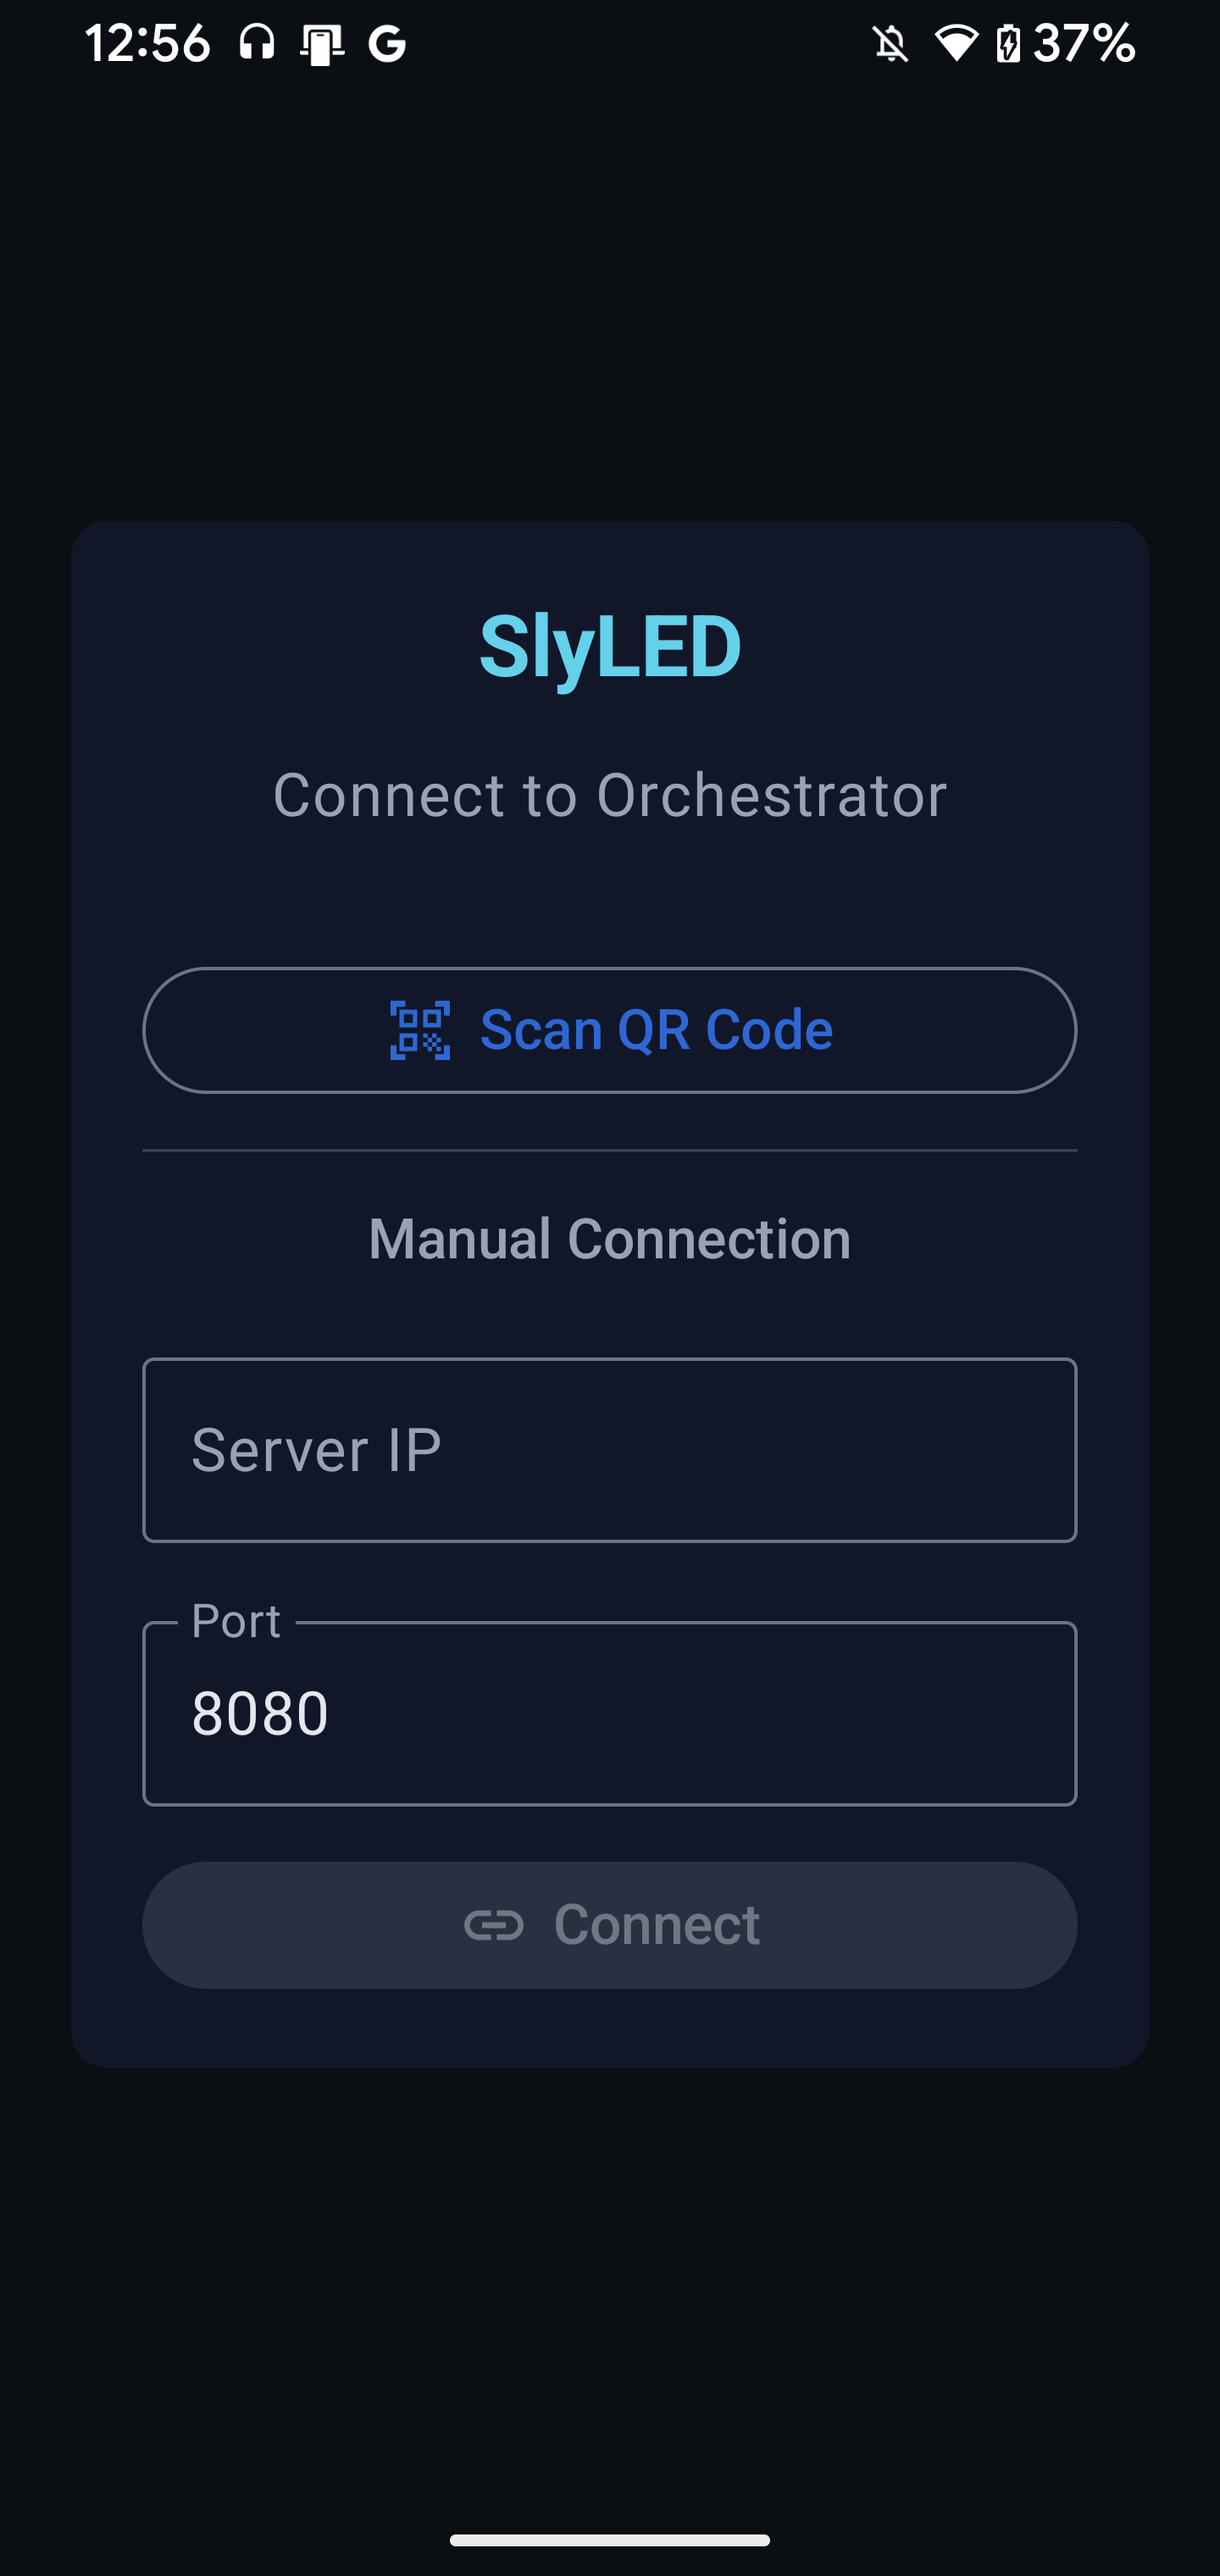
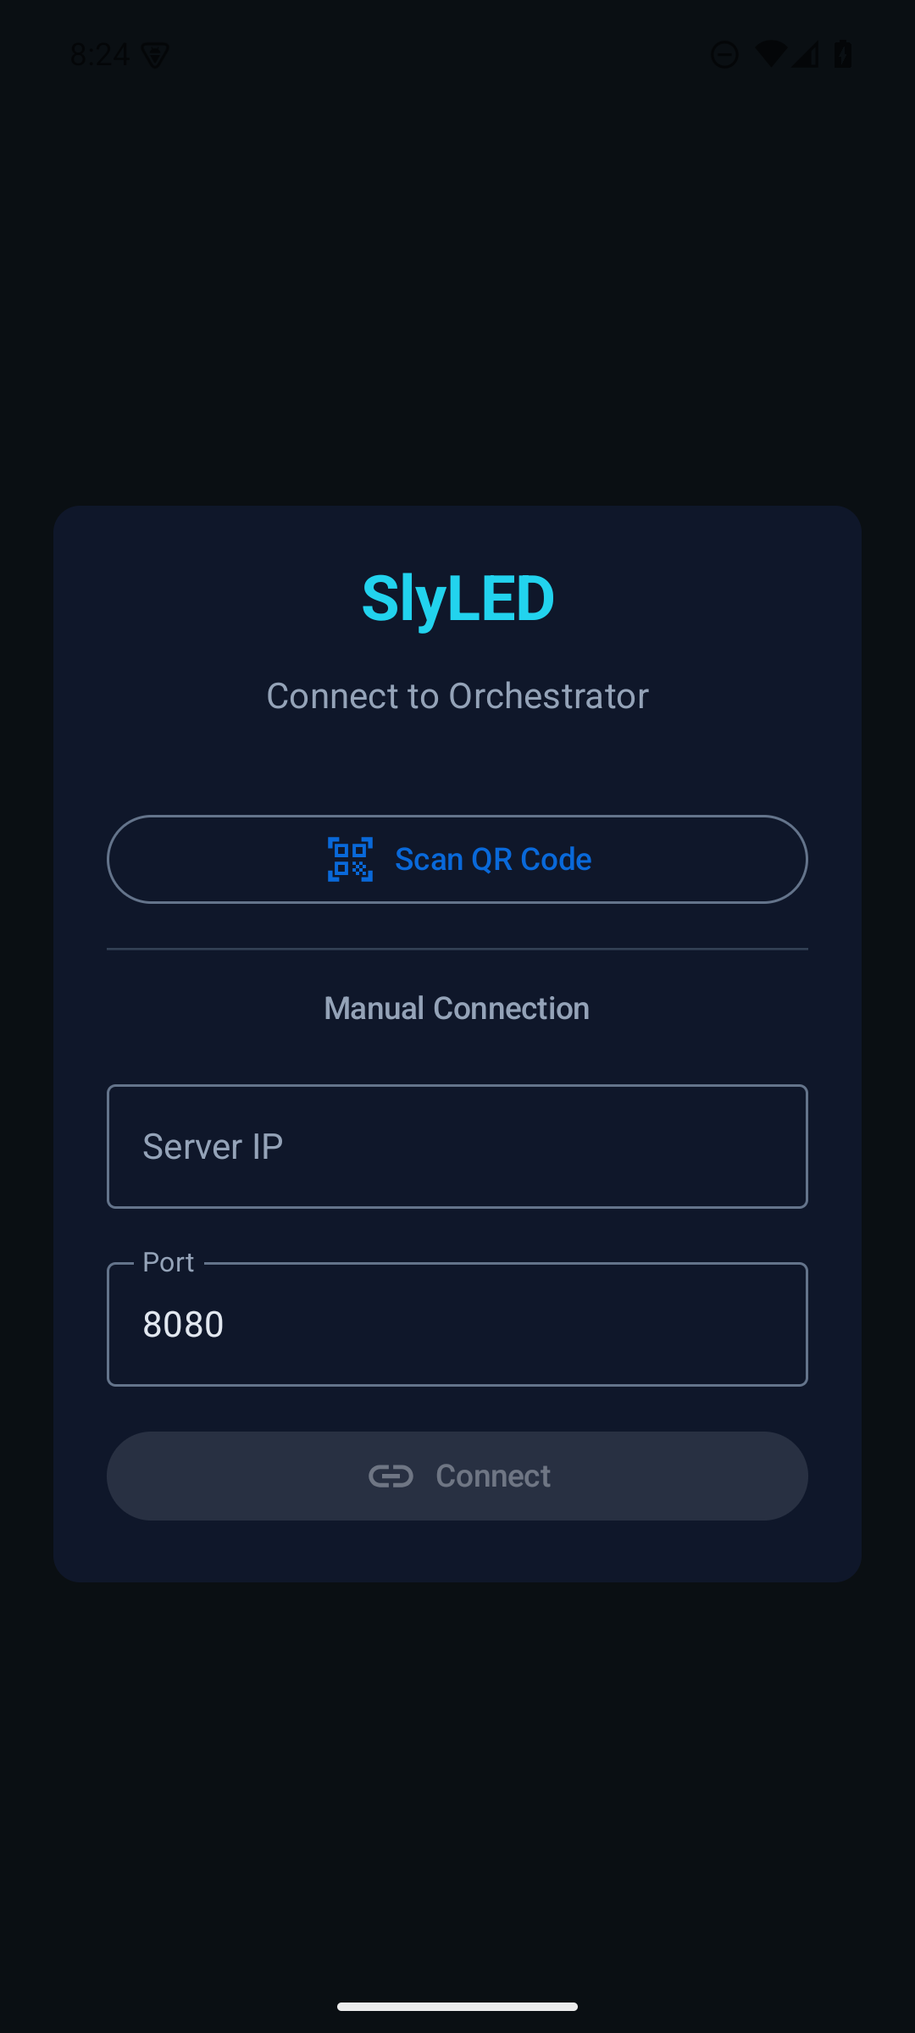
docs(#888): refresh Android screenshots for v1.8.x Command Surface
Captured from a headless Pixel-6 emulator running v1.8.4 against
a localhost orchestrator. Replaces the pre-redesign Control shot
(operators were seeing a UI in the manual that hasn't existed
since v1.8.1) and adds one shot per Command Surface page so the
prose's four-bullet description has matching visuals:

  android-control-master.png      brightness + Auto Brightness
  android-control-grab.png        moving-head tiles
  android-control-fixtures.png    profile-driven shortcuts
                                  (Hurricane Bubble Haze sample)
  android-control-shows.png       Figure Eight playlist

Also refreshes connection / stage-idle / status / settings to
match the current chrome (Connected pill, "No show running"
banner, NowPlayingAnchor over the pager).

Dropped four orphaned pre-redesign shots that nothing references:
android-control-scrolled, android-show-running, android-stage-
running, android-status-scrolled.

diff --git a/docs/USER_MANUAL.md b/docs/USER_MANUAL.md
@@ -344,7 +344,7 @@ Live operator tool for running shows from your phone. Connects to the desktop se
 **Install:** Sideload `slyled-android.apk` to your phone and install.
 **Connect:** Scan the QR code on the desktop Settings tab, or enter the server IP and port manually.
 
-![Android Stage View](screenshots/android/android-stage-idle.png)
+![Android Connect screen](screenshots/android/android-connection.png)
 
 **Bottom nav (3 tabs):** Stage / Control / Status. Settings lives at the top-right ⚙ gear, not in the bottom nav.
 
@@ -355,19 +355,35 @@ Live operator tool for running shows from your phone. Connects to the desktop se
 
 **Stage tab** — live viewport showing all fixtures with beam cones, tracked object markers, grid floor. Pinch-to-zoom + drag-to-pan.
 
-**Control tab (rebuilt for v1.8.1):** persistent Now Playing anchor over a 4-page pager:
+![Android Stage view](screenshots/android/android-stage-idle.png)
+
+**Control tab (rebuilt for v1.8.1):** persistent Now Playing anchor over a 4-page pager.
 
 - **Master** *(default page)* — global brightness slider with ±5% steppers + bloom-on-drag. Auto Brightness toggle (moved from Settings) + source picker (Mic / Playback / USB) + live envelope meter.
+
+  ![Control · Master](screenshots/android/android-control-master.png)
+
 - **Grab** — moving-head tiles showing current colour + pan/tilt direction arrow. Favourites row at top (star to add). Tap a tile → Controller Mode (gyro-driven pan/tilt at 20 Hz). Top-right "Send all home" button homes every mover.
+
+  ![Control · Grab](screenshots/android/android-control-grab.png)
+
 - **Fixtures** — non-mover DMX fixtures (bubble machines, hazers, washes, pars, strobes) with profile-driven shortcuts: 🫧 bubbles, 💨 haze low/med/high, 🌀 fan slow/med/fast, 💡 colour swatches, 🟣 UV, ⚡ momentary strobe, 🧼 hold-to-clean. "More controls →" opens a per-channel sheet with capability sliders. Top-right "Stop all effects" kills strobes + bubble/haze in parallel.
+
+  ![Control · Fixtures](screenshots/android/android-control-fixtures.png)
+
 - **Shows** — starred → recent → all sections, ranked by last-played time. One-tap launch. Long-press to star.
+
+  ![Control · Shows](screenshots/android/android-control-shows.png)
 
 **Now Playing anchor** sits above the pager — name, loop chip, elapsed / total, progress bar, STOP and Next.
 
-![Android Control](screenshots/android/android-control.png)
+**Status tab** — device monitoring (performers online/offline, RSSI, firmware), camera nodes with Track button to start/stop person tracking, and Art-Net/DMX engine status.
+
 ![Android Status](screenshots/android/android-status.png)
 
-**Status tab** — device monitoring (performers online/offline, RSSI, firmware), camera nodes with Track button to start/stop person tracking, and Art-Net/DMX engine status.
+**Settings sheet** (top-right ⚙) — System name, units, stage dimensions (W × H × D), dark mode, logging, plus the Auto Brightness configuration block (enable, model mode, sensitivity/floor/ceiling/attack/release sliders).
+
+![Android Settings](screenshots/android/android-settings.png)
 
 **Controller Mode (Grab → tap a mover):** Hold the phone and point where you want the beam — pan/tilt follows your phone orientation at 20 Hz. Tap Recenter to calibrate, X to exit. Press-Start / press-Stop guarded by nonce+ACK (#825). The first time you use it on a new phone, the aim-axis wizard (#869) measures your phone's body-frame axes; takes ~10 seconds.
 
